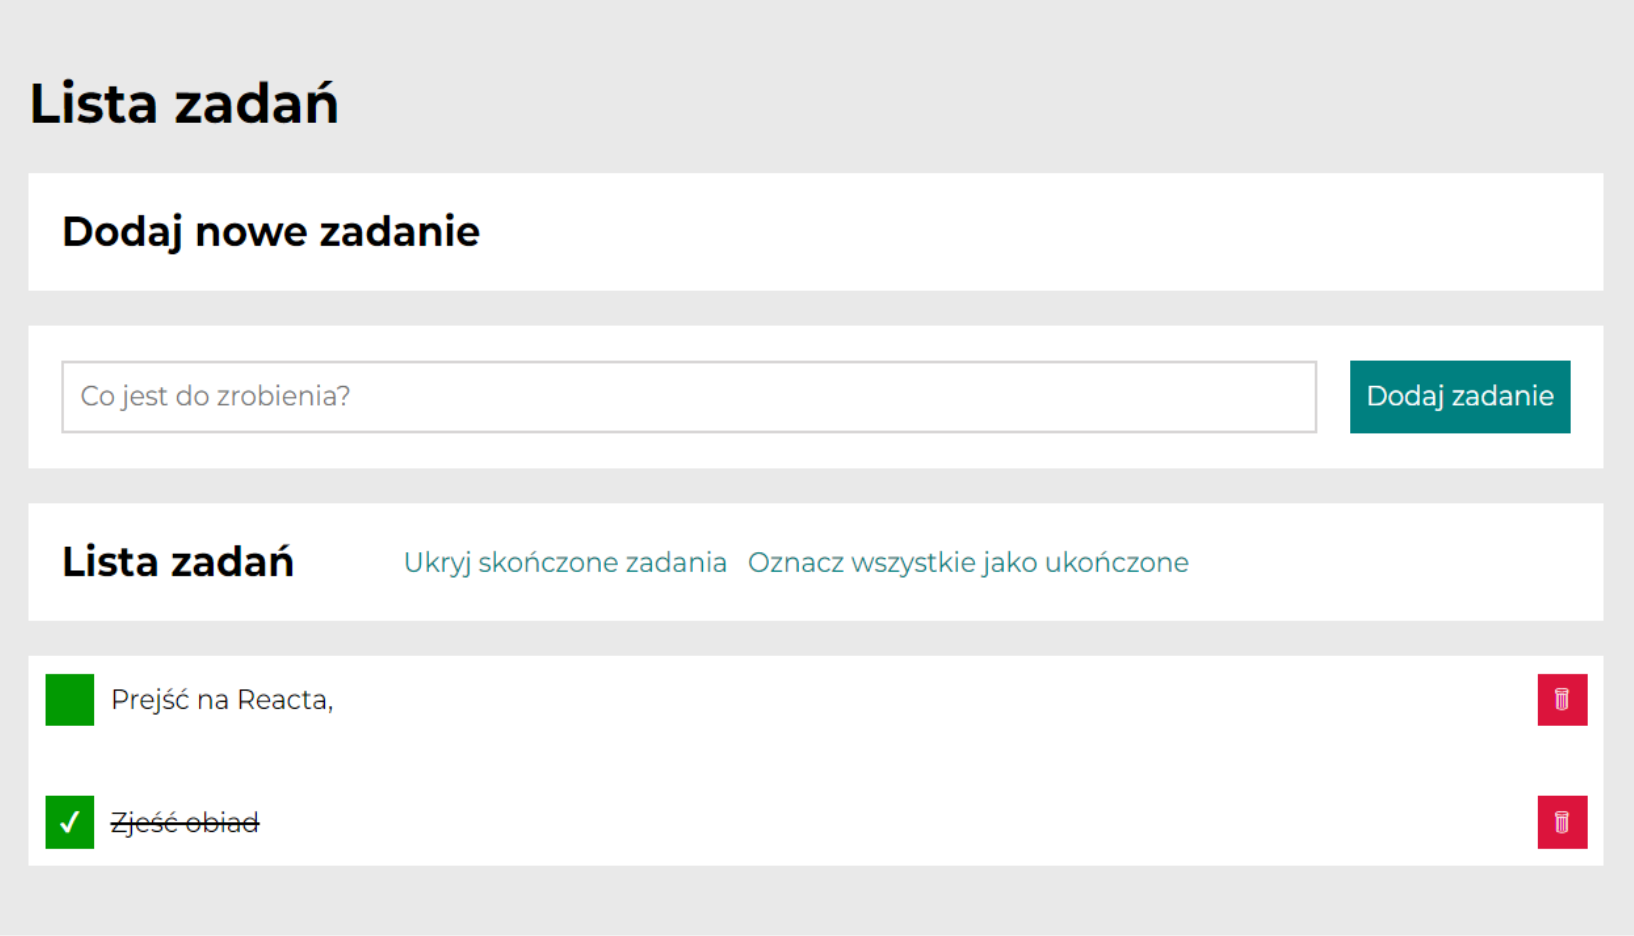
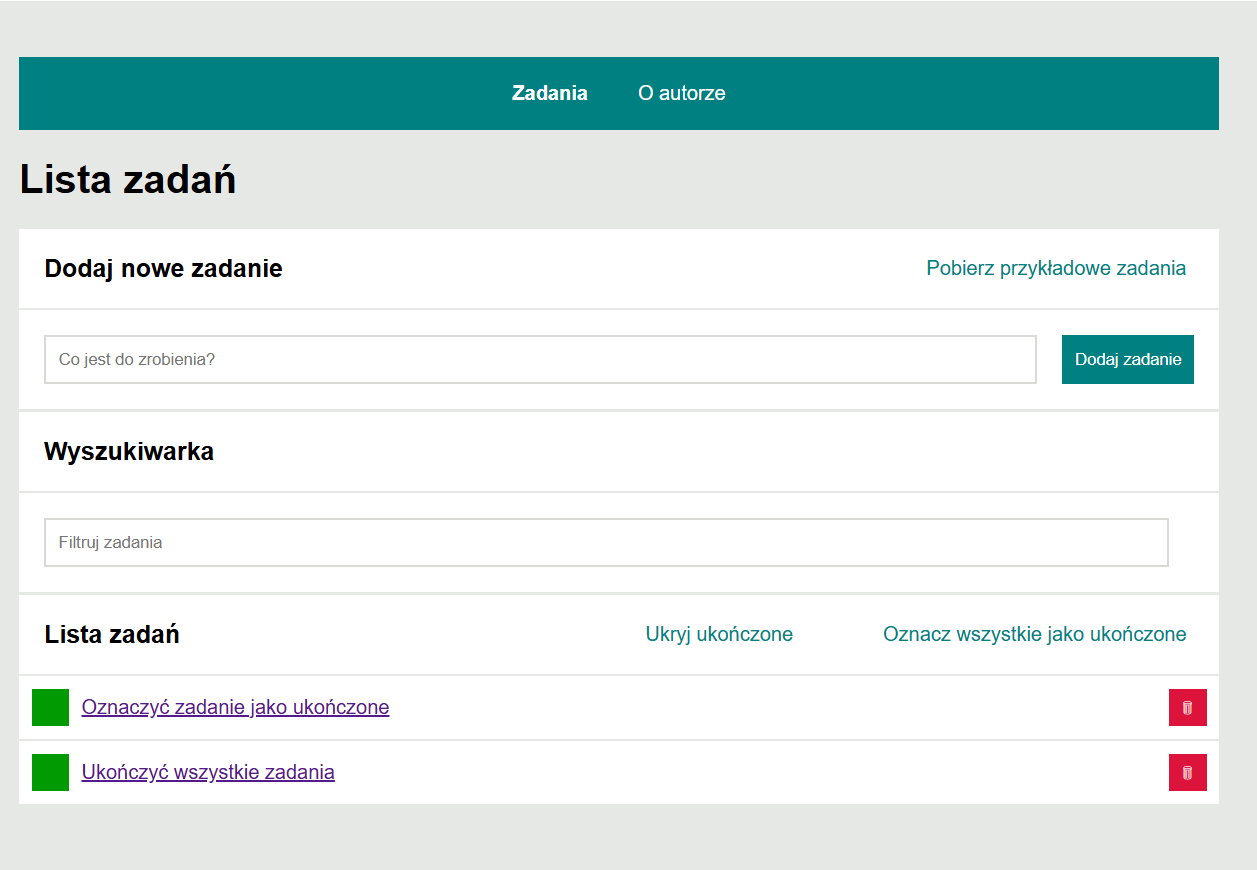
Navigation and AuthorPage updated

diff --git a/src/App.js b/src/App.js
@@ -1,35 +1,28 @@
 import React from "react";
 import Tasks from "./features/tasks/TasksPage/Tasks";
-import { HashRouter, Link, Switch, Route, Redirect } from "react-router-dom";
+import Navigation from "./Navigation";
+import { HashRouter, Switch, Route, Redirect } from "react-router-dom";
+import { toTask, toAuthor, toTasks } from "./routes";
 import AuthorPage from "./features/Author/AuthorPage";
 import TaskPage from "./features/tasks/TaskPage";
 
 
 export default () => (
     <HashRouter>
-    <nav>
-        <ul>
-            <li>
-                <Link to="/zadania">Zadania</Link>
-            </li>
-            <li>
-                <Link to="/autor">O autorze</Link>
-            </li>
-        </ul>
+    <Navigation />
+    
         <Switch>
-            <Route path="/zadania/:id">
+            <Route path={toTask()}>
              <TaskPage/>
             </Route>
-            <Route path="/zadania">
+            <Route path={toTasks()}>
            <Tasks />
             </Route>
-            <Route path="/autor">
+            <Route path={toAuthor()}>
             <AuthorPage />
             </Route>
-            <Route path="/">
-             <Redirect to="/zadania"/>
-            </Route>
+             <Redirect to={toTasks()}/>
         </Switch>
-    </nav>
+   
     </HashRouter>
 );

diff --git a/src/features/Author/AuthorPage.js b/src/features/Author/AuthorPage.js
@@ -9,11 +9,21 @@ export default () => (
     <Header>O autorze</Header>
     <Section
     title="O mnie"
-    body={
-            <Article>
-                fhg
-            </Article>
-    }
+    body={(
+       <Article>
+        <p>
+            <strong>Cześć</strong>! W wolnych chwilach lubię długie spacery po lesie, parku, 
+            bardzo lubię też wyprawy do muzeów, choć ostatnio nie mam za wiele wolnego czasu.
+            Jeśli chodzi o sport, moim ulubionym jest pływanie, kiedyś też zrobiłam kurs nurkowania.
+            Prywatnie jestem właścicielką pięknego i bardzo energicznego kotka.
+        </p>
+        <p>
+            Zdecydowałam się na ten kurs, ponieważ szukałam nowych umiejętności. Nauka programowania
+            była dla mnie trudna, ale w tej chwili mam <em>nieukrywaną przyjemność</em> zaprezentować wynik moich
+            starań. Obecnie staram się poświęcić wiecej czasu na rozwijanie moich możliwości.
+        </p>
+       </Article>
+)}
     />
 </div>
 );

diff --git a/src/features/tasks/TaskPage/index.js b/src/features/tasks/TaskPage/index.js
@@ -3,6 +3,8 @@ import Section from "../../../common/Section";
 import { useParams } from "react-router-dom";
 import { useSelector } from "react-redux";
 import { getTaskById } from "../tasksSlice";
+import { Container } from "./styled";
+
 
 
 
@@ -12,17 +14,19 @@ function TaskPage() {
     const task = useSelector(state => getTaskById(state, id));
     
     return (
-        <div>
-            <h2>Dodaj nowe zadanie</h2>
+    <div>  
+    <h2>Szczegóły zadania</h2>
+<Container>
     <Section
     title={task ? task.content : "Nie znaleziono zadania"}
-    body={    
+    body={!!task && (    
             <>
-            <strong>Ukończono:</strong>
+            <><strong>Ukończono: </strong>{task.done ? "Tak" : "Nie"}</>
             </>
-    }
+    )}
     />
-</div>
+</Container>
+</div> 
     );
 }
 

diff --git a/src/features/tasks/TasksPage/TasksList/index.js b/src/features/tasks/TasksPage/TasksList/index.js
@@ -2,6 +2,7 @@ import { useSelector, useDispatch } from "react-redux";
 import {List, Item, Content, Button} from "./styled";
 import { selectHideDone, toggleTaskDone, removeTask, selectTasksbyQuery } from "../../tasksSlice";
 import { useLocation, Link } from "react-router-dom";
+import { toTask } from "../../../../routes";
 
 
 const TasksList = () => {
@@ -26,7 +27,7 @@ const TasksList = () => {
                         {task.done ? "✔" : ""}
                     </Button>
                     <Content done={task.done}>
-                        <Link to={`/zadania/${task.id}`}>{task.content}</Link>
+                        <Link to={toTask({id: task.id})}>{task.content}</Link>
                     </Content>
                     <Button
                         button_remove

diff --git a/src/features/tasks/TasksPage/queryParameters.js b/src/features/tasks/TasksPage/queryParameters.js
@@ -1,0 +1,25 @@
+import { useHistory, useLocation } from "react-router-dom";
+
+export const useQueryParameter = key => {
+    const location = useLocation();
+    const searchParams = new URLSearchParams(location.search);
+    return searchParams.get(key);
+}
+
+export const useReplaceQueryParameter = () => {
+    const location = useLocation();
+    const history = useHistory();
+
+    return ({ key, value }) => {
+        const searchParams = new URLSearchParams(location.search);
+
+        if (value === undefined) {
+            searchParams.delete(key);
+        } else {
+            searchParams.set(key, value);
+        }
+
+        const newSearch = searchParams.toString();
+        history.push(`${location.pathname}?${newSearch}`);
+    }
+}

diff --git a/public/index.html b/public/index.html
@@ -2,14 +2,14 @@
 <html lang="pl">
   <head>
     <meta charset="utf-8" />
-    <link rel="icon" href="%PUBLIC_URL%ico.png" />
+    <link rel="icon" href="%PUBLIC_URL%/ico.png" />
     <meta name="viewport" content="width=device-width, initial-scale=1" />
     <meta name="theme-color" content="#000000" />
     <meta
       name="description"
       content="Web site created using create-react-app"
     />
-    <link rel="apple-touch-icon" href="%PUBLIC_URL%logo192.png" />
+    <link rel="apple-touch-icon" href="%PUBLIC_URL%/logo192.png" />
     <!--
       manifest.json provides metadata used when your web app is installed on a
       user's mobile device or desktop. See https://developers.google.com/web/fundamentals/web-app-manifest/

diff --git a/src/features/tasks/TasksPage/Buttons/index.js b/src/features/tasks/TasksPage/Buttons/index.js
@@ -5,8 +5,7 @@ import { toggleHideDone,
          setAllDone, 
          selectAreTasksEmpty, 
          selectHideDone, 
-         selectEveryTaskDone, 
-         fetchExampleTasks } from "../../tasksSlice";
+         selectEveryTaskDone, } from "../../tasksSlice";
 
 const Buttons = () => {
 
@@ -18,9 +17,6 @@ const Buttons = () => {
 
     return (
         <Wrapper>
-            <Button onClick={() => dispatch(fetchExampleTasks())}>
-                Pobierz przykładowe zadania
-            </Button>
           {!AreTasksEmpty && ( 
             <>
             <Button onClick={() => dispatch(toggleHideDone())}>

diff --git a/src/features/tasks/TasksPage/Tasks.js b/src/features/tasks/TasksPage/Tasks.js
@@ -4,6 +4,7 @@ import Form from "./Form";
 import TasksList from "./TasksList";
 import Section from "../../../common/Section";
 import Search from "../TasksPage/Search";
+import FetchExampleTasksButton from "./fetchExampleTasksButton";
 
 
 function Tasks() {
@@ -13,7 +14,9 @@ function Tasks() {
      <main>
     <h1 className="header">Lista zadań</h1>
     
-    <Section title="Dodaj nowe zadanie" body={<Form />} />
+    <Section title="Dodaj nowe zadanie" 
+             body={<Form />}
+             extraHeaderContent={<FetchExampleTasksButton/>} />
 
     <Section 
     title="Wyszukiwarka"

diff --git a/src/Navigation/styled.js b/src/Navigation/styled.js
@@ -1,0 +1,29 @@
+import { NavLink } from "react-router-dom";
+import styled from "styled-components";
+
+export const StyledNavLink = styled(NavLink)`
+color: white;
+text-decoration: none;
+
+&:hover {
+    color: wheat;
+    border-bottom: 1px solid;
+}
+
+&.active {
+   font-weight: bold;
+}
+`;
+
+export const List = styled.ul`
+max-width: 1000 px;
+background-color: teal;
+display: flex;
+justify-content: center;
+list-style: none;
+padding: 0;
+`;
+
+export const Item = styled.li`
+margin: 20px;
+`;

diff --git a/src/Navigation/index.js b/src/Navigation/index.js
@@ -1,0 +1,20 @@
+import { toAuthor, toTasks } from "../routes";
+import { StyledNavLink, List, Item } from "./styled";
+
+
+export default () => {
+    return (
+        <nav>
+        <List>
+            <Item>
+                <StyledNavLink to={toTasks()}>Zadania</StyledNavLink>
+            </Item>
+            <Item>
+                <StyledNavLink to={toAuthor()}>O autorze</StyledNavLink>
+            </Item>
+        </List>
+    </nav>
+    )
+
+
+}

diff --git a/src/features/tasks/TasksPage/fetchExampleTasksButton/index.js b/src/features/tasks/TasksPage/fetchExampleTasksButton/index.js
@@ -1,0 +1,16 @@
+import { fetchExampleTasks } from "../../tasksSlice";
+import { useDispatch } from "react-redux";
+import { Button } from "../Buttons/styled";
+
+
+export default () => {
+
+    const dispatch = useDispatch();
+
+    return (
+        <Button onClick={() => dispatch(fetchExampleTasks())}>
+                Pobierz przykładowe zadania
+        </Button>
+    );
+
+};

diff --git a/src/features/tasks/TasksPage/Search/index.js b/src/features/tasks/TasksPage/Search/index.js
@@ -1,7 +1,8 @@
-import { useLocation, useHistory } from "react-router-dom";
+
 import Input from "../../Input";
 import { Wrapper } from "./styled";
-import searchQueryParamName from "../searchQUeryParamName";
+import searchQueryParamName from "../searchQueryParamName";
+import { useQueryParameter, useReplaceQueryParameter } from "../queryParameters";
 
 
 export default () => {
